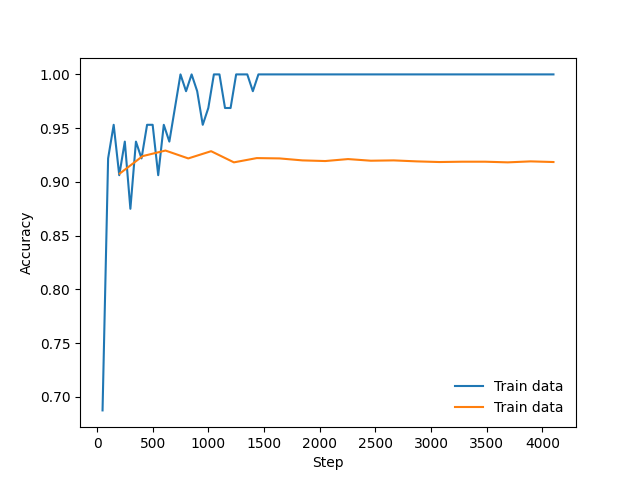
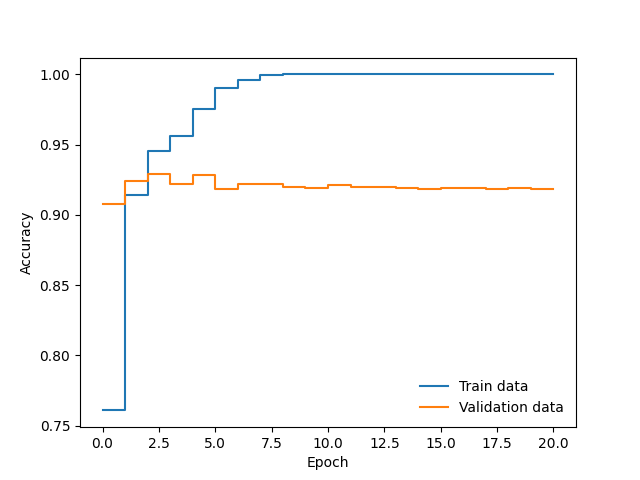
Accuracy vs SNR plotting

diff --git a/model.py b/model.py
@@ -56,37 +56,48 @@ class Conv1dModel(LightningModule):
         return optimizer
 
     def training_step(self, batch, batch_idx):
-        x, y = batch
+        x, y, _ = batch
         y_pred = self(x)
         loss = self.loss_fn(y_pred, y)
-        self.log("train_loss", loss, on_step=True, on_epoch=True, prog_bar=True, logger=True)
+        self.log("train_loss", loss, on_step=True, on_epoch=True, prog_bar=True, 
+                 logger=True)
         acc = self.accuracy(y_pred, y)
-        self.log("train_acc", acc, on_step=True, on_epoch=True, prog_bar=True, logger=True)
+        self.log("train_acc", acc, on_step=True, on_epoch=True, prog_bar=True,
+                 logger=True) 
         return loss
 
     def validation_step(self, batch, batch_idx):
-        x, y = batch
+        x, y, _ = batch
         y_pred = self(x)
         loss = self.loss_fn(y_pred, y)
-        self.log("val_loss", loss, on_step=False, on_epoch=True, prog_bar=False, logger=True)
+        self.log("val_loss", loss, on_step=False, on_epoch=True, prog_bar=False, 
+                 logger=True)
         acc = self.accuracy(y_pred, y)
-        self.log("val_acc", acc, on_step=False, on_epoch=True, prog_bar=True, logger=True)
+        self.log("val_acc", acc, on_step=False, on_epoch=True, prog_bar=True, 
+                 logger=True)
 
     def on_test_start(self):
+        # batches = self.trainer.num_test_batches[0]
         self.test_step_output \
-            = np.empty((self.trainer.num_test_batches[0], 1001, 5))
+        = {"confusion_matrix": np.empty(4),
+            "roc": np.empty((1000, 5)),
+            "snr_acc": np.empty((10, 3))}
 
     def test_step(self, batch, batch_idx):
-        x, y = batch
+        x, y, parameters = batch
         y_pred = self(x)
+
         threshold = 0.5
         mat = self.conf_mat(threshold)(y_pred, y)
         tn = mat[0][0].item() 
         fp = mat[0][1].item() 
         fn = mat[1][0].item() 
         tp = mat[1][1].item()
-        self.test_step_output[batch_idx][0] \
-            = np.array([threshold, tn, fp, fn, tp])
+        if batch_idx == 0: 
+            self.test_step_output["conf_mat"] = np.array([tn, fp, fn, tp])
+        else: 
+            self.test_step_output["conf_mat"] += np.array([tn, fp, fn, tp])
+
         # Vary threshold for ROC
         for i, threshold in enumerate(np.linspace(0, 1, 1000)):
             mat = self.conf_mat(threshold)(y_pred, y)
@@ -94,14 +105,35 @@ class Conv1dModel(LightningModule):
             fp = mat[0][1].item() 
             fn = mat[1][0].item() 
             tp = mat[1][1].item()
-            self.test_step_output[batch_idx][i+1] \
+            if batch_idx == 0: 
+                self.test_step_output["roc"][i] \
                 = np.array([threshold, tn, fp, fn, tp])
+            else: 
+                self.test_step_output["roc"][i][1:] += np.array([tn, fp, fn, tp])
+
+        threshold = 0.5
+        injection_snr = parameters["injection_snr"].numpy()
+        n = 10
+        min_snr, max_snr = 5, 20
+        delta_snr = (max_snr-min_snr)/n
+        for i in range(n):
+            snr = min_snr + i*delta_snr
+            if i==0: mask = injection_snr < snr+delta_snr
+            elif i==n-1: mask = snr <= injection_snr
+            else: mask = np.logical_and(snr <= injection_snr,
+                                        injection_snr < snr+delta_snr)
+            tp = (y_pred[mask]>=threshold).sum()
+            fn = (y_pred[mask]<threshold).sum()
+            if batch_idx == 0: 
+                self.test_step_output["snr_acc"][i] = np.array([snr, fn, tp])
+            else: 
+                self.test_step_output["snr_acc"][i][1:] += np.array([fn, tp])
 
     def on_test_end(self): 
 
         # Confusion matrix
-        tn, fp, fn, tp = np.sum(self.test_step_output[:,:,1:], axis=0).T
-        mat = np.array([[tn[0], fp[0]], [fn[0], tp[0]]])/(tn[0]+fp[0]+fn[0]+tp[0])
+        tn, fp, fn, tp = self.test_step_output["conf_mat"]
+        mat = np.array([[tn, fp], [fn, tp]]) / (tn +fp+fn+tp)
         label = np.array([["TN", "FP"], ["FN", "TP"]])
         fig, ax = plt.subplots()
         ax.pcolormesh(mat, vmin=0, vmax=1)
@@ -115,12 +147,14 @@ class Conv1dModel(LightningModule):
         ax.xaxis.set_label_position("top") 
         ax.set_ylabel("Target")
         ax.xaxis.set_inverted(True)
-        ax.tick_params(top=True, labeltop=True, bottom=False, labelbottom=False)
+        ax.tick_params(top=True, labeltop=True, bottom=False, 
+                       labelbottom=False)
         fig.savefig("conf_mat.png")
 
         # ROC
-        tpr = tp[1:]/(tp[1:]+fn[1:])
-        fpr = fp[1:]/(fp[1:]+tn[1:])
+        _, tn, fp, fn, tp = self.test_step_output["roc"].T
+        tpr = tp / (tp + fn)
+        fpr = fp / (fp + tn)
         auc = np.trapz(tpr[::-1], x=fpr[::-1])
         fig, ax = plt.subplots()
         ax.plot(fpr, tpr)
@@ -129,4 +163,14 @@ class Conv1dModel(LightningModule):
         ax.set_xlabel("False positive rate")
         ax.set_ylabel("True positive rate")
         fig.savefig("roc.png")
-        
+
+        # Accuracy vs snr
+        snr, fn, tp = self.test_step_output["snr_acc"].T
+        acc = tp / (fn + tp)
+        width = snr[1] - snr[0]
+        fig, ax = plt.subplots()
+        ax.bar(snr, acc, width=width, align="edge", edgecolor="k")
+        ax.set_xlim(np.min(snr), np.max(snr)+width)
+        ax.set_xlabel("SNR")
+        ax.set_ylabel("Accuracy")
+        fig.savefig("snr_acc.png")

diff --git a/data.py b/data.py
@@ -15,6 +15,7 @@ class GGWDDataset(Dataset):
         self.noise_e1 = file["noise_samples"]["e1_strain"]
         self.noise_e2 = file["noise_samples"]["e2_strain"]
         self.noise_e3 = file["noise_samples"]["e3_strain"]
+        self.injection_snr = file["injection_parameters"]["injection_snr"]
         self.sample_shape = (3, self.injection_e1.shape[1])
 
     def __len__(self):
@@ -22,17 +23,19 @@ class GGWDDataset(Dataset):
 
     def __getitem__(self, idx):
         if idx < len(self.injection_e1): 
-            sample = torch.as_tensor(np.array([self.injection_e1[idx], 
-                                               self.injection_e2[idx], 
-                                               self.injection_e3[idx]]))*1e+23
-            target = torch.as_tensor([1.])
+            sample = np.array([self.injection_e1[idx], 
+                               self.injection_e2[idx], 
+                               self.injection_e3[idx]])*1e+23
+            target = np.array([1.])
+            parameters = {"injection_snr": self.injection_snr[idx]}
         else:
             idx -= len(self.injection_e1)
-            sample = torch.as_tensor(np.array([self.noise_e1[idx], 
-                                               self.noise_e2[idx], 
-                                               self.noise_e3[idx]]))*1e+23
-            target = torch.as_tensor([0.])
-        return sample, target
+            sample = np.array([self.noise_e1[idx], 
+                               self.noise_e2[idx], 
+                               self.noise_e3[idx]])*1e+23
+            target = np.array([0.])
+            parameters = {"injection_snr": np.nan}
+        return sample, target, parameters
 
 
 class Data(LightningDataModule):

diff --git a/metrics.py b/metrics.py
@@ -16,19 +16,33 @@ def plot_ignore_nan(ax, x, y, *args, **kwargs):
     mask = np.isfinite(y)
     ax.plot(x[mask], y[mask], *args, **kwargs)
 
+def step_ignore_nan(ax, y, *args, **kwargs):
+    mask = np.isfinite(y)
+    y = y[mask] 
+    x = np.arange(0, np.sum(mask)+1)
+    y = np.append(y, y[-1])
+    ax.plot(x, y, drawstyle="steps-post", *args, **kwargs)
+
 # Learning curve
-fig, ax = plt.subplots()
-plot_ignore_nan(ax, step, train_loss_step)
-ax.set_xlabel("Step")
-ax.set_ylabel("Loss")
+fig, ax_epoch = plt.subplots()
+mask = np.isfinite(train_loss_epoch)
+steps_per_epoch = step[mask][1] - step[mask][0]
+ax_step = ax_epoch.secondary_xaxis("top", 
+                                   functions=(lambda s: s*steps_per_epoch, 
+                                              lambda s: s/steps_per_epoch))
+step_ignore_nan(ax_epoch, train_loss_epoch)       
+plot_ignore_nan(ax_epoch, step/steps_per_epoch, train_loss_step)
+ax_epoch.set_xlabel("Epoch")
+ax_step.set_xlabel("Step")
+ax_epoch.set_ylabel("Loss")
 fig.suptitle("Learning curve")
 fig.savefig("learning_curve.png")
 
 # Accuracy
 fig, ax = plt.subplots()
-plot_ignore_nan(ax, step, train_acc_step, label="Train data")
-plot_ignore_nan(ax, step, val_acc, label="Train data")
-ax.set_xlabel("Step")
+step_ignore_nan(ax, train_acc_epoch, label="Train data")
+step_ignore_nan(ax, val_acc, label="Validation data")
+ax.set_xlabel("Epoch")
 ax.set_ylabel("Accuracy")
 ax.legend(frameon=False)
 fig.savefig("accuracy.png")

diff --git a/main.py b/main.py
@@ -12,7 +12,7 @@ def main():
     input_size = np.prod(data.sample_shape)
     model = Conv1dModel(learning_rate=0.0005)
     summary(model, input_size=(batch_size, *data.sample_shape))
-    trainer = Trainer(max_epochs=10)
+    trainer = Trainer(max_epochs=1)
     trainer.fit(model, data)
 
 
